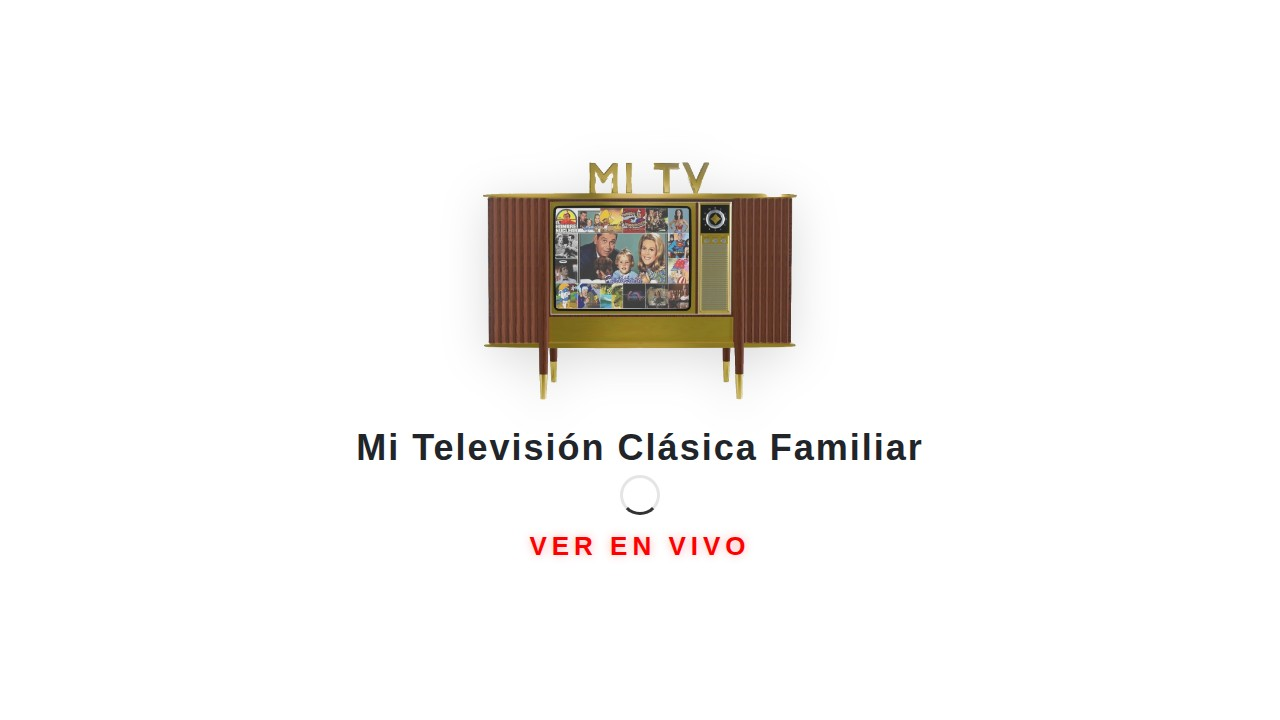
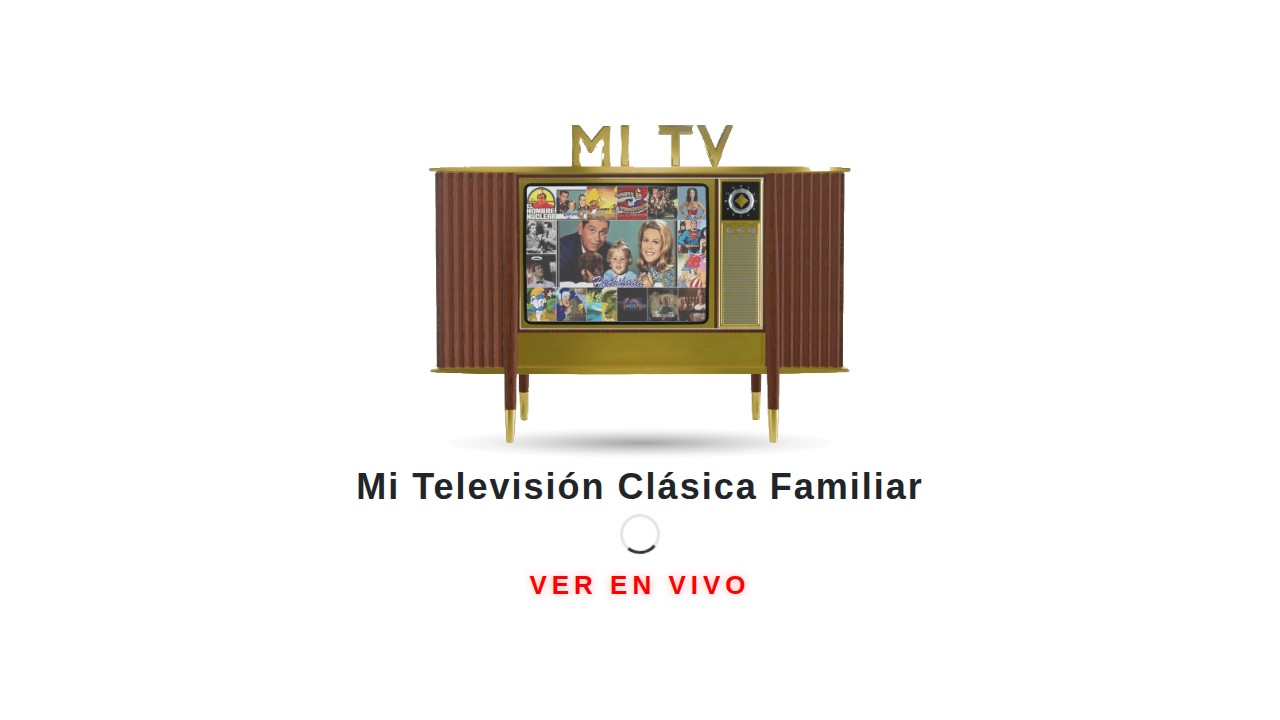
v2.6.0: Bigger TV + shadow under legs
- TV logo enlarged from 480px to 640px
- Added ground shadow under TV legs (matching website style)

Changed region(s): [[0.2812, 0.1528, 0.7188, 0.7028], [0.4062, 0.7333, 0.5938, 0.825]]

diff --git a/css/style.css b/css/style.css
@@ -56,16 +56,29 @@ body {
 }
 
 #loading-screen .logo-container {
-    width: 480px;
+    width: 640px;
     height: auto;
-    margin-bottom: 30px;
+    margin-bottom: 20px;
+    position: relative;
+}
+
+#loading-screen .logo-container::after {
+    content: '';
+    position: absolute;
+    bottom: -10px;
+    left: 5%;
+    width: 90%;
+    height: 40px;
+    background: radial-gradient(ellipse at center, rgba(0, 0, 0, 0.35) 0%, rgba(0, 0, 0, 0.15) 35%, rgba(0, 0, 0, 0.05) 55%, transparent 75%);
+    border-radius: 50%;
+    z-index: 0;
 }
 
 #loading-screen .logo-container img {
     width: 100%;
     height: auto;
-    border-radius: 12px;
-    filter: drop-shadow(0 8px 24px rgba(0, 0, 0, 0.15));
+    position: relative;
+    z-index: 1;
 }
 
 #loading-screen .app-title {
